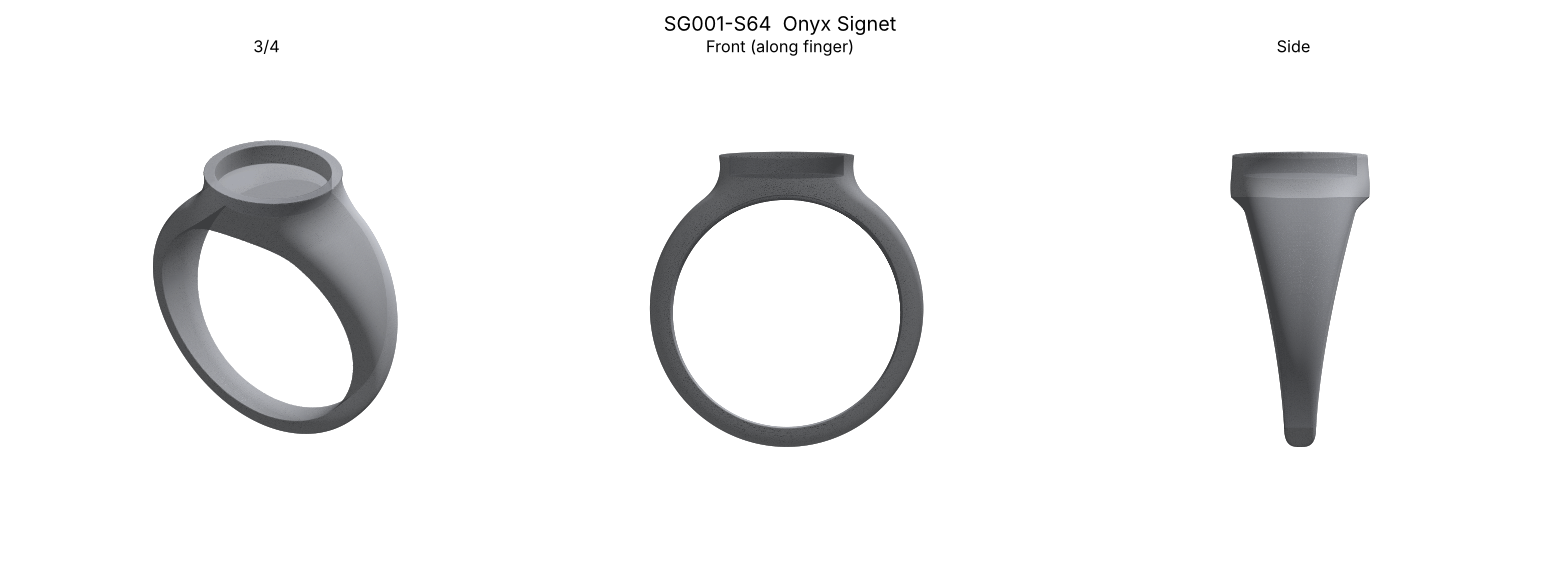
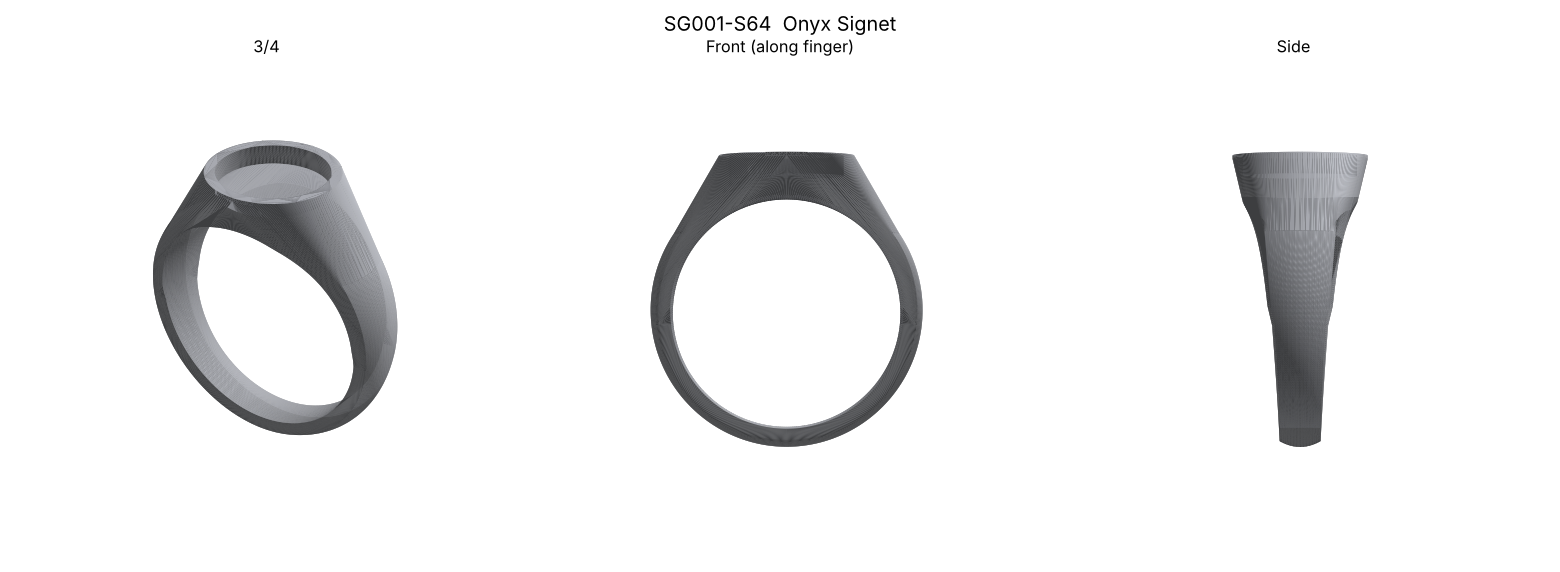
jewelry-cad: signets v3 - head is the hull of face + upper shank (straight even sides, no step)
Claude-Session: https://claude.ai/code/session_01PfP4o3WJFAv6XYjE3deh4p

diff --git a/jewelry-cad/hull_signet.py b/jewelry-cad/hull_signet.py
@@ -1,0 +1,75 @@
+"""Classic signet built the way bench jewellers shape one: the head is the convex hull of the
+face outline and the upper shank, so the sides run in straight, even lines from the face edge
+down into the shank all the way round (cone seen from the side, teardrop seen along the finger).
+No step, no vertical drum under the face. Units mm, axis Z = finger, +Y = top."""
+import math
+import numpy as np, trimesh
+from manifold3d import Manifold, Mesh, CrossSection
+from engine import inner_radius, phi_of, edge_rows, polar, grid_mesh, taper, ellipse_pts, to_manifold
+
+
+def _shank(p, r0):
+    th = np.linspace(0, 2 * math.pi, 720, endpoint=False)
+    phi = phi_of(th)
+    v = edge_rows(21)
+    W = taper(phi, p["shank_top_width_mm"], p["shank_bottom_width_mm"], p["taper_power"])
+    T = taper(phi, p["shank_top_thickness_mm"], p["shank_bottom_thickness_mm"], p["taper_power"])
+    Z = v[:, None] * W[None, :] / 2
+    R = r0 + T[None, :] * (1 - 0.3 * v[:, None] ** 2)       # domed section
+    Ri = np.full_like(R, r0 - 0.3)                           # bore is cut later
+    TH = np.broadcast_to(th[None, :], R.shape)
+    P = polar(R, TH, Z)
+    return grid_mesh(P, polar(Ri, TH, Z)), P, phi
+
+
+def _bore(r0, k):
+    ys = np.linspace(-12, 12, 121)
+    pts = [(0.0, ys[0])] + [(r0 + k * min((y / 4.0) ** 2, 1.0), y) for y in ys] + [(0.0, ys[-1])]
+    return Manifold.revolve(CrossSection([pts]), 360)
+
+
+def body(p, face_lift=0.0):
+    """Returns (manifold body, H, a, b). face_lift raises the hull top above H (for textured faces)."""
+    r0 = inner_radius(p["iso_size"])
+    H = r0 + p["head_height_mm"]
+    a, b = p["face_length_mm"] / 2, p["face_width_mm"] / 2
+    shank_tm, P, phi = _shank(p, r0)
+    # upper shank points (pulled 0.03 mm inside so hull and shank never share faces)
+    sel = np.abs(phi) <= math.radians(p["hull_span_deg"])
+    Q = P[:, sel, :].reshape(-1, 3)
+    rq = np.hypot(Q[:, 0], Q[:, 1]); Q[:, 0] *= (rq - 0.03) / rq; Q[:, 1] *= (rq - 0.03) / rq
+    top = H + face_lift
+    pts = np.vstack([Q, ellipse_pts(a, b, top, 180), ellipse_pts(a, b, top - p["face_rim_mm"], 180)])
+    head = Manifold.hull_points(pts)
+    m = (to_manifold(shank_tm) + head) - _bore(r0, p["comfort_fit_mm"])
+    return m, H, a, b
+
+
+def to_tm(m):
+    mesh = m.to_mesh()
+    tm = trimesh.Trimesh(mesh.vert_properties[:, :3], mesh.tri_verts, process=True)
+    tm = max(tm.split(only_watertight=False), key=lambda x: len(x.faces))
+    trimesh.repair.fix_normals(tm)
+    return tm
+
+
+def heightfield_cutter(a, b, H, g_fn, res=0.04, margin=1.2, above=2.0):
+    """Closed solid whose underside is the surface y = H - g(x,z): subtracting it carves the face."""
+    xs = np.arange(-a - margin, a + margin + res, res); zs = np.arange(-b - margin, b + margin + res, res)
+    X, Z = np.meshgrid(xs, zs, indexing="ij")
+    Yb = H - g_fn(X, Z)
+    nx, nz = X.shape
+    bot = np.c_[X.ravel(), Yb.ravel(), Z.ravel()]
+    topv = np.c_[X.ravel(), np.full(X.size, H + above), Z.ravel()]
+    V = np.vstack([bot, topv]); off = X.size
+    i, j = np.meshgrid(np.arange(nx - 1), np.arange(nz - 1), indexing="ij")
+    A = (i * nz + j).ravel(); B = (i * nz + j + 1).ravel(); C = ((i + 1) * nz + j + 1).ravel(); D = ((i + 1) * nz + j).ravel()
+    F = [np.c_[A, C, B], np.c_[A, D, C], np.c_[A, B, C] + off, np.c_[A, C, D] + off]
+    def wall(idx):                                     # side walls along a boundary index path
+        k = np.arange(len(idx) - 1); a_, b_ = idx[k], idx[k + 1]
+        return [np.c_[a_, b_, b_ + off], np.c_[a_, b_ + off, a_ + off]]
+    I = lambda ii, jj: ii * nz + jj
+    for path in [I(0, np.arange(nz)), I(np.arange(nx), nz - 1), I(nx - 1, np.arange(nz)[::-1]), I(np.arange(nx)[::-1], 0)]:
+        F += wall(path)
+    tm = trimesh.Trimesh(V, np.vstack(F), process=True); trimesh.repair.fix_normals(tm)
+    return to_manifold(tm)

diff --git a/jewelry-cad/designs_lib.py b/jewelry-cad/designs_lib.py
@@ -73,39 +73,40 @@ def diagonal_dome(p):
     return grid_mesh(polar(R, TH, Z), polar(Ri, TH, Z))
 
 
-import sdf
+import hull_signet as hs
 
 
 def classic_signet(p):
-    """Classic signet: shank flares smoothly into a flat round/oval face (implicit model)."""
-    return sdf.build(p)
+    """Plain flat face (engraving-ready)."""
+    m, H, a, b = hs.body(p)
+    return hs.to_tm(m)
 
 
 def onyx_signet(p):
-    """Classic signet with a flat seat for a glued flat stone (stone is NOT part of the casting)."""
+    """Flat seat for a glued flat stone, leaving an even metal rim (stone is NOT cast)."""
+    m, H, a, b = hs.body(p)
     rs = p["stone_diameter_mm"] / 2 + p["stone_clearance_mm"]
-    def seat(X, Y, Z, H):           # positive inside the pocket
-        return np.minimum(rs - np.sqrt(X ** 2 + Z ** 2), Y - (H - p["stone_seat_depth_mm"]))
-    return sdf.build(p, extra_cut_fn=seat)
+    d = p["stone_seat_depth_mm"]
+    seat = Manifold.cylinder(d + 1.0, rs, rs, 256).rotate((-90, 0, 0)).translate((0, H - d, 0))
+    return hs.to_tm(m - seat)
 
 
 def sunburst_oval_signet(p):
-    """Oval signet whose face is cut into swirling V facets (sunburst) around a small centre dome."""
+    """Face cut into swirling V facets that run out to a scalloped edge, small dome in the centre."""
     a, b = p["face_length_mm"] / 2, p["face_width_mm"] / 2
     n, depth, swirl = p["ray_count"], p["ray_depth_mm"], math.radians(p["ray_swirl_deg"])
     rd, hd = p["center_dot_radius_mm"], p["center_dot_height_mm"]
-    def top(X, Z):                 # how far below the face plane the surface sits (negative = raised)
-        r = np.sqrt((X / a) ** 2 + (Z / b) ** 2)           # 0 centre .. 1 rim
+    m, H, a, b = hs.body(p, face_lift=hd + 0.2)
+    def g(X, Z):
+        r = np.sqrt((X / a) ** 2 + (Z / b) ** 2)
         ang = np.arctan2(Z / b, X / a)
-        ph = (ang * n / (2 * math.pi) - swirl * r * n / (2 * math.pi)) % 1.0
-        v = 1 - np.abs(2 * ph - 1)                          # triangle wave: 0 ridge, 1 valley
-        r0 = (rd + 0.3) / min(a, b)
-        ramp = np.clip((r - r0) / 0.15, 0, 1)
-        g = depth * v * ramp
+        ph = (ang * n / (2 * math.pi) - swirl * np.minimum(r, 1.2) * n / (2 * math.pi)) % 1.0
+        v = 1 - np.abs(2 * ph - 1)                              # 0 ridge .. 1 valley
+        ramp = np.clip((r - (rd + 0.3) / min(a, b)) / 0.15, 0, 1)
         rm = np.sqrt(X ** 2 + Z ** 2)
         dot = hd * np.sqrt(np.clip(1 - (rm / rd) ** 2, 0, 1))
-        return g - dot
-    return sdf.build(p, top_height_fn=top, step=0.05)
+        return depth * v * ramp - dot
+    return hs.to_tm(m - hs.heightfield_cutter(a, b, H, g))
 
 
 BUILDERS = {f.__name__: f for f in [fluted_band, bar_band, diagonal_dome, classic_signet, onyx_signet, sunburst_oval_signet]}

diff --git a/jewelry-cad/CLAUDE.md b/jewelry-cad/CLAUDE.md
@@ -25,9 +25,9 @@ business fields status/qty/costs/price are preserved). Status flow: design → a
 | RG001 | Fluted Band | v2: rounded rib ends |
 | RG002 | Bar Band | flat top panel + grooves each side |
 | RG003 | Diagonal Flute Dome | tapered, 35° flutes |
-| SG001 | Onyx Signet | v2 (SDF classic body); 10 mm flat onyx, glued; seat 1.8 mm deep |
-| SG002 | Sunburst Oval Signet | v2 (SDF); 13x8.5 oval across finger, 36 swirling V facets, centre dome |
-| SG003 | Classic Round Signet | 12 mm plain flat face (engraving-ready), Miansai-style reference |
+| SG001 | Onyx Signet | v3 hull body; 10 mm flat onyx, glued; seat 1.8 mm deep |
+| SG002 | Sunburst Oval Signet | v3 hull body; 13x8.5 oval across finger, 36 swirling V facets, centre dome |
+| SG003 | Classic Round Signet | v2 hull body; 12 mm plain flat face (engraving-ready), Miansai-style reference |
 
 Signet references owner approved as the target look: shank widens + thickens smoothly into the head,
 crisp flat face, teardrop outline seen along the finger. v1 signets (hull head on band) were judged wrong.
@@ -36,7 +36,9 @@ crisp flat face, teardrop outline seen along the finger. v1 signets (hull head o
 `engine.py` geometry helpers · `designs_lib.py` builders · `designs/*.json` one file per design (source of truth) ·
 `jewelry.py` build+validate+export · `catalog.py` · `render.py` ·
 `sdf.py` implicit modelling (smooth blend + marching cubes) for organic forms such as signets.
-Signet face: outside the face ellipse metal drops 0.3 mm at once then slopes 45° (owner asked for a clean, even face-to-shank separation).
+Signets v3 (`hull_signet.py`): head = convex hull of face outline + upper shank (±95°), so sides run straight and even from the
+face edge into the shank (cone from the side, teardrop along the finger) — owner rejected both the SDF blend (shank flush with face)
+and the 0.3 mm drop (drum under face). Textured faces are carved with a height-field cutter.
 Redesign of an unproduced model keeps its code and gets `version` +1. Prefer structured grid meshes (no booleans) —
 booleans with coplanar faces gave zero-area slivers that break STL watertightness on re-import.
 Validation = watertight, single body, inner diameter vs ISO, radial wall-thickness rays, volume, weight per metal.
